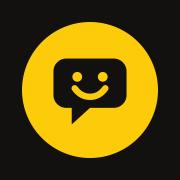
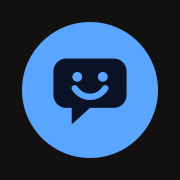
Brand color: sky blue instead of yellow (#16)
The yellow is gone. The brand color is now one bright sky blue (--accent)
with dark text on it (--on-accent), the same in both themes and on the
black sign band, so changing it again is a one-line edit.

- Buttons, the logo and icons, the caption ribbon, the reel's shadow, the
  crown, Caption of the Day and the posted banner use it.
- Rate's bullet is green, the color of an upvote, since blue is Create's.
- The Jaded New Yorker vibe rides the A instead of the N.
- "You beat the bot" is a green banner, clear of the bot's purple.

diff --git a/app/globals.css b/app/globals.css
@@ -20,14 +20,18 @@
   --sign-muted: #b9b2ab;
   --sign-rule: #3a3531;
 
+  /* The brand color: a bright sky blue, the same in both themes and on the
+     black sign. It is light, so what sits on it is dark. */
+  --accent: #5aa5ff;
+  --accent-edge: #2f73c9;
+  --on-accent: #0a1326;
+
   /* Subway line colors, used as fills. */
-  --yellow: #fccc0a; /* N Q R W */
-  --yellow-edge: #b38f00;
   --orange: #ff6319; /* B D F M */
   --red: #ee352e; /* 1 2 3 */
   --green: #00933c; /* 4 5 6 */
   --purple: #b933ad; /* 7 */
-  --blue: #0f4fd6; /* A C E, a little brighter for screens */
+  --blue: var(--accent); /* A C E */
   --gray: #a7a9ac; /* L */
 
   /* The same hues, dark enough to read as text on this theme's surfaces. */
@@ -65,8 +69,9 @@
   --color-on-sign: var(--on-sign);
   --color-sign-muted: var(--sign-muted);
   --color-sign-rule: var(--sign-rule);
-  --color-yellow: var(--yellow);
-  --color-yellow-edge: var(--yellow-edge);
+  --color-accent: var(--accent);
+  --color-accent-edge: var(--accent-edge);
+  --color-on-accent: var(--on-accent);
   --color-orange: var(--orange);
   --color-red: var(--red);
   --color-green: var(--green);
@@ -117,8 +122,8 @@ body {
 }
 
 ::selection {
-  background: var(--yellow);
-  color: #000;
+  background: var(--accent);
+  color: var(--on-accent);
 }
 
 :focus-visible {
@@ -126,7 +131,7 @@ body {
   outline-offset: 2px;
 }
 .sign :focus-visible {
-  outline-color: var(--yellow);
+  outline-color: #fff;
 }
 
 @layer components {
@@ -286,7 +291,7 @@ body {
     background: linear-gradient(
       to bottom,
       transparent,
-      rgb(252 204 10 / 0.45) 85%,
+      rgb(90 140 255 / 0.5) 85%,
       rgb(255 255 255 / 0.9)
     );
     animation: scan 1.7s cubic-bezier(0.4, 0, 0.6, 1) infinite;

diff --git a/app/page.tsx b/app/page.tsx
@@ -214,7 +214,7 @@ export default async function Home() {
                               .join(", ")}
                           </span>
                         </span>
-                        <span className="display shrink-0 text-[1.9rem] tabular-nums text-yellow">
+                        <span className="display shrink-0 text-[1.9rem] tabular-nums text-accent">
                           +{caption.score}
                         </span>
                       </Link>
@@ -293,7 +293,7 @@ function CaptionOfTheDay({ caption }: { caption: RankedCaption }) {
   return (
     <Link
       href={`/p/${generation.id}`}
-      className="group mt-4 grid overflow-hidden rounded-2xl bg-yellow text-black sm:grid-cols-[5fr_6fr]"
+      className="group mt-4 grid overflow-hidden rounded-2xl bg-accent text-on-accent sm:grid-cols-[5fr_6fr]"
     >
       <ViewTransition name={`photo-${generation.id}`} share="morph" default="none">
         {/* eslint-disable-next-line @next/next/no-img-element */}
@@ -306,7 +306,7 @@ function CaptionOfTheDay({ caption }: { caption: RankedCaption }) {
       <div className="flex flex-col justify-center gap-4 p-6 sm:p-9">
         <span
           className="bullet text-[1.5rem]"
-          style={{ "--b": "#000", "--bt": "var(--yellow)" } as CSSProperties}
+          style={{ "--b": "var(--on-accent)", "--bt": "var(--accent)" } as CSSProperties}
         >
           <Crown className="h-[0.95em] w-[0.95em]" />
         </span>

diff --git a/components/caption-ticker.tsx b/components/caption-ticker.tsx
@@ -1,6 +1,6 @@
 import type { CSSProperties } from "react";
 
-// A yellow service-notice ribbon of winning captions, scrolling by. The track
+// A ribbon of winning captions in the brand blue, scrolling by. The track
 // holds the list twice, so the loop has no seam. Decorative: every caption in
 // it is also on the page or in the feed.
 export function CaptionTicker({ lines }: { lines: string[] }) {
@@ -10,12 +10,12 @@ export function CaptionTicker({ lines }: { lines: string[] }) {
   const run = lines.map((line, index) => (
     <li key={index} className="flex items-center whitespace-nowrap">
       <span className="joke px-7 text-[1.2rem] sm:text-[1.35rem]">&ldquo;{line}&rdquo;</span>
-      <span className="h-2.5 w-2.5 rounded-full bg-black" />
+      <span className="h-2.5 w-2.5 rounded-full bg-on-accent" />
     </li>
   ));
 
   return (
-    <div className="ticker overflow-hidden bg-yellow py-3 text-black" aria-hidden>
+    <div className="ticker overflow-hidden bg-accent py-3 text-on-accent" aria-hidden>
       <div className="ticker-track" style={{ "--ticker-duration": `${seconds}s` } as CSSProperties}>
         <ul className="flex shrink-0 items-center">{run}</ul>
         <ul className="flex shrink-0 items-center">{run}</ul>

diff --git a/lib/ui.ts b/lib/ui.ts
@@ -4,7 +4,7 @@
 const key =
   "key inline-flex items-center justify-center gap-2 whitespace-nowrap rounded-xl font-semibold disabled:cursor-not-allowed disabled:opacity-55";
 
-const primary = `${key} bg-yellow text-black shadow-[0_3px_0_var(--yellow-edge)] hover:brightness-105`;
+const primary = `${key} bg-accent text-on-accent shadow-[0_3px_0_var(--accent-edge)] hover:brightness-105`;
 const secondary = `${key} border-[1.5px] border-rule bg-surface text-ink shadow-[0_3px_0_var(--rule)] hover:border-muted`;
 
 export const btnPrimary = `${primary} px-5 py-2.5`;
@@ -13,7 +13,7 @@ export const btnPrimarySmall = `${primary} px-3.5 py-1.5 text-sm`;
 export const btnSecondarySmall = `${secondary} px-3.5 py-1.5 text-sm`;
 
 export const textLink =
-  "font-semibold underline decoration-yellow decoration-[3px] underline-offset-4 hover:decoration-current";
+  "font-semibold underline decoration-accent decoration-[3px] underline-offset-4 hover:decoration-current";
 
 export const field =
   "mt-1.5 w-full rounded-xl border-[1.5px] border-rule bg-surface px-3.5 py-2.5 text-base font-normal text-ink outline-none placeholder:text-muted/70 focus:border-ink";

diff --git a/components/logo.tsx b/components/logo.tsx
@@ -1,19 +1,19 @@
 // The app mark: a smiling speech bubble (a caption that made you laugh) on a
-// yellow route bullet. Same drawing as app/icon.svg.
+// blue route bullet. Same drawing as app/icon.svg.
 export function Logo({ className = "h-8 w-8" }: { className?: string }) {
   return (
     <svg aria-hidden viewBox="0 0 32 32" className={className}>
-      <circle cx="16" cy="16" r="16" fill="#fccc0a" />
+      <circle cx="16" cy="16" r="16" fill="var(--accent)" />
       <path
         d="M10.4 8.6h11.2a3 3 0 0 1 3 3v5.6a3 3 0 0 1-3 3H16l-4.3 3.9v-3.9h-1.3a3 3 0 0 1-3-3v-5.6a3 3 0 0 1 3-3z"
-        fill="#131110"
+        fill="var(--on-accent)"
       />
-      <circle cx="13" cy="12.9" r="1.15" fill="#fccc0a" />
-      <circle cx="19" cy="12.9" r="1.15" fill="#fccc0a" />
+      <circle cx="13" cy="12.9" r="1.15" fill="var(--accent)" />
+      <circle cx="19" cy="12.9" r="1.15" fill="var(--accent)" />
       <path
         d="M12.4 15.6c1 1.4 2.2 2 3.6 2s2.6-.6 3.6-2"
         fill="none"
-        stroke="#fccc0a"
+        stroke="var(--accent)"
         strokeWidth="1.5"
         strokeLinecap="round"
       />

diff --git a/app/rate/page.tsx b/app/rate/page.tsx
@@ -81,7 +81,7 @@ export default async function RatePage({ searchParams }: PageProps<"/rate">) {
       <div className="lg:grid lg:grid-cols-[17rem_minmax(0,40rem)] lg:justify-center lg:gap-14">
         {/* On wide screens the title, tabs and post buttons stay put while the feed scrolls. */}
         <aside className="lg:sticky lg:top-24 lg:self-start">
-          <PageHeader glyph="R" color="yellow" title="Rate">
+          <PageHeader glyph="R" color="green" title="Rate">
             Vote for the memes and AI captions that actually made you laugh.
           </PageHeader>
 
@@ -97,7 +97,7 @@ export default async function RatePage({ searchParams }: PageProps<"/rate">) {
               >
                 {RATE_TABS[key]}
                 {key === "new" && unratedCount ? (
-                  <Bullet color="yellow" className="text-[0.8rem]" label={`${unratedCount} new`}>
+                  <Bullet color="blue" className="text-[0.8rem]" label={`${unratedCount} new`}>
                     {unratedCount > 99 ? "99+" : unratedCount}
                   </Bullet>
                 ) : null}

diff --git a/components/posted-banner.tsx b/components/posted-banner.tsx
@@ -15,7 +15,7 @@ export function PostedBanner({ title, path }: { title: string; path: string }) {
   return (
     <div
       role="status"
-      className="relative flex flex-col gap-4 overflow-hidden rounded-2xl bg-yellow p-5 text-black sm:flex-row sm:items-center sm:justify-between"
+      className="relative flex flex-col gap-4 overflow-hidden rounded-2xl bg-accent p-5 text-on-accent sm:flex-row sm:items-center sm:justify-between"
     >
       <Confetti />
       <div className="relative">
@@ -28,7 +28,7 @@ export function PostedBanner({ title, path }: { title: string; path: string }) {
       <div className="relative shrink-0">
         <CopyLinkButton
           path={path}
-          className="key inline-flex items-center justify-center gap-2 whitespace-nowrap rounded-xl bg-black px-5 py-2.5 font-semibold text-white shadow-[0_3px_0_rgb(0_0_0/0.35)]"
+          className="key inline-flex items-center justify-center gap-2 whitespace-nowrap rounded-xl bg-on-accent px-5 py-2.5 font-semibold text-accent shadow-[0_3px_0_rgb(0_0_0/0.35)]"
         />
       </div>
     </div>

diff --git a/components/duel-result.tsx b/components/duel-result.tsx
@@ -4,7 +4,7 @@ import { Crown } from "@/components/icons";
 import { RUBRIC, type DuelResult, type JudgedCaption, type RubricKey } from "@/lib/duel";
 
 const BANNERS = {
-  human: { title: "You beat the bot", tone: "bg-yellow text-black" },
+  human: { title: "You beat the bot", tone: "bg-green text-white" },
   bot: { title: "The bot wins this round", tone: "bg-purple text-white" },
   tie: { title: "Dead even", tone: "bg-ink text-canvas" },
 } as const;
@@ -32,7 +32,7 @@ function Line({
         {won && (
           <span
             className="bullet ml-auto text-[0.95rem]"
-            style={{ "--b": "var(--yellow)", "--bt": "#000" } as CSSProperties}
+            style={{ "--b": "var(--accent)", "--bt": "var(--on-accent)" } as CSSProperties}
             title="Winner"
           >
             <Crown className="h-[0.95em] w-[0.95em]" />

diff --git a/components/nav-links.tsx b/components/nav-links.tsx
@@ -6,10 +6,10 @@ import { Bullet } from "@/components/bullet";
 import { LinkPending } from "@/components/link-pending";
 import type { LineColor } from "@/lib/lines";
 
-// Each section rides its own line: the R really is yellow, the B orange and
-// the C blue. On phones the bullet alone is the link.
+// Each section rides its own line. The B really is orange and the C blue; the
+// R takes green, the color of an upvote. On phones the bullet alone is the link.
 const links: { href: string; label: string; glyph: string; color: LineColor }[] = [
-  { href: "/rate", label: "Rate", glyph: "R", color: "yellow" },
+  { href: "/rate", label: "Rate", glyph: "R", color: "green" },
   { href: "/duel", label: "Beat the bot", glyph: "B", color: "orange" },
   { href: "/create", label: "Create", glyph: "C", color: "blue" },
 ];

diff --git a/lib/captions.ts b/lib/captions.ts
@@ -12,7 +12,7 @@ export const DAILY_GENERATION_LIMIT = 10;
 
 // The voice the AI writes in. `instruction` goes into the saved prompt.
 // `bullet` is how the vibe is marked in the UI: each one rides a real line
-// (the M is orange, the L grey, the 1 red and the N yellow).
+// (the M is orange, the L grey, the 1 red and the A blue).
 export const VIBES = {
   midwest: {
     label: "Midwest culture shock",
@@ -41,7 +41,7 @@ export const VIBES = {
   newyorker: {
     label: "Jaded New Yorker",
     emoji: "🗽",
-    bullet: { glyph: "N", color: "yellow" },
+    bullet: { glyph: "A", color: "blue" },
     blurb: "Seen it all, impressed by none of it",
     instruction:
       "a born-and-raised New Yorker who has seen it all. Deadpan, unimpressed, brutally efficient, a little rude but never mean.",

diff --git a/components/hero-reel.tsx b/components/hero-reel.tsx
@@ -66,7 +66,7 @@ export function HeroReel({ slides }: { slides: ReelSlide[] }) {
       onMouseLeave={() => setPaused(false)}
       className="group block lg:rotate-[1.2deg]"
     >
-      <article className="overflow-hidden rounded-2xl border-[1.5px] border-ink bg-surface shadow-[0.55rem_0.55rem_0_var(--yellow)] transition-transform duration-300 group-hover:-translate-x-0.5 group-hover:-translate-y-0.5">
+      <article className="overflow-hidden rounded-2xl border-[1.5px] border-ink bg-surface shadow-[0.55rem_0.55rem_0_var(--accent)] transition-transform duration-300 group-hover:-translate-x-0.5 group-hover:-translate-y-0.5">
         <div className="relative aspect-[4/3] bg-black">
           {slides.map((slide, index) => (
             // eslint-disable-next-line @next/next/no-img-element

diff --git a/lib/lines.ts b/lib/lines.ts
@@ -1,12 +1,11 @@
 // The subway line colors the UI uses for route bullets. `fill` is the disc,
 // `glyph` the letter on it (black on the light lines, as on real signs).
 export const LINES = {
-  yellow: { fill: "var(--yellow)", glyph: "#000" }, // N Q R W
   orange: { fill: "var(--orange)", glyph: "#000" }, // B D F M
   red: { fill: "var(--red)", glyph: "#fff" }, // 1 2 3
   green: { fill: "var(--green)", glyph: "#fff" }, // 4 5 6
   purple: { fill: "var(--purple)", glyph: "#fff" }, // 7
-  blue: { fill: "var(--blue)", glyph: "#fff" }, // A C E
+  blue: { fill: "var(--blue)", glyph: "var(--on-accent)" }, // A C E
   gray: { fill: "var(--gray)", glyph: "#000" }, // L
   ink: { fill: "var(--ink)", glyph: "var(--canvas)" },
 } as const;
